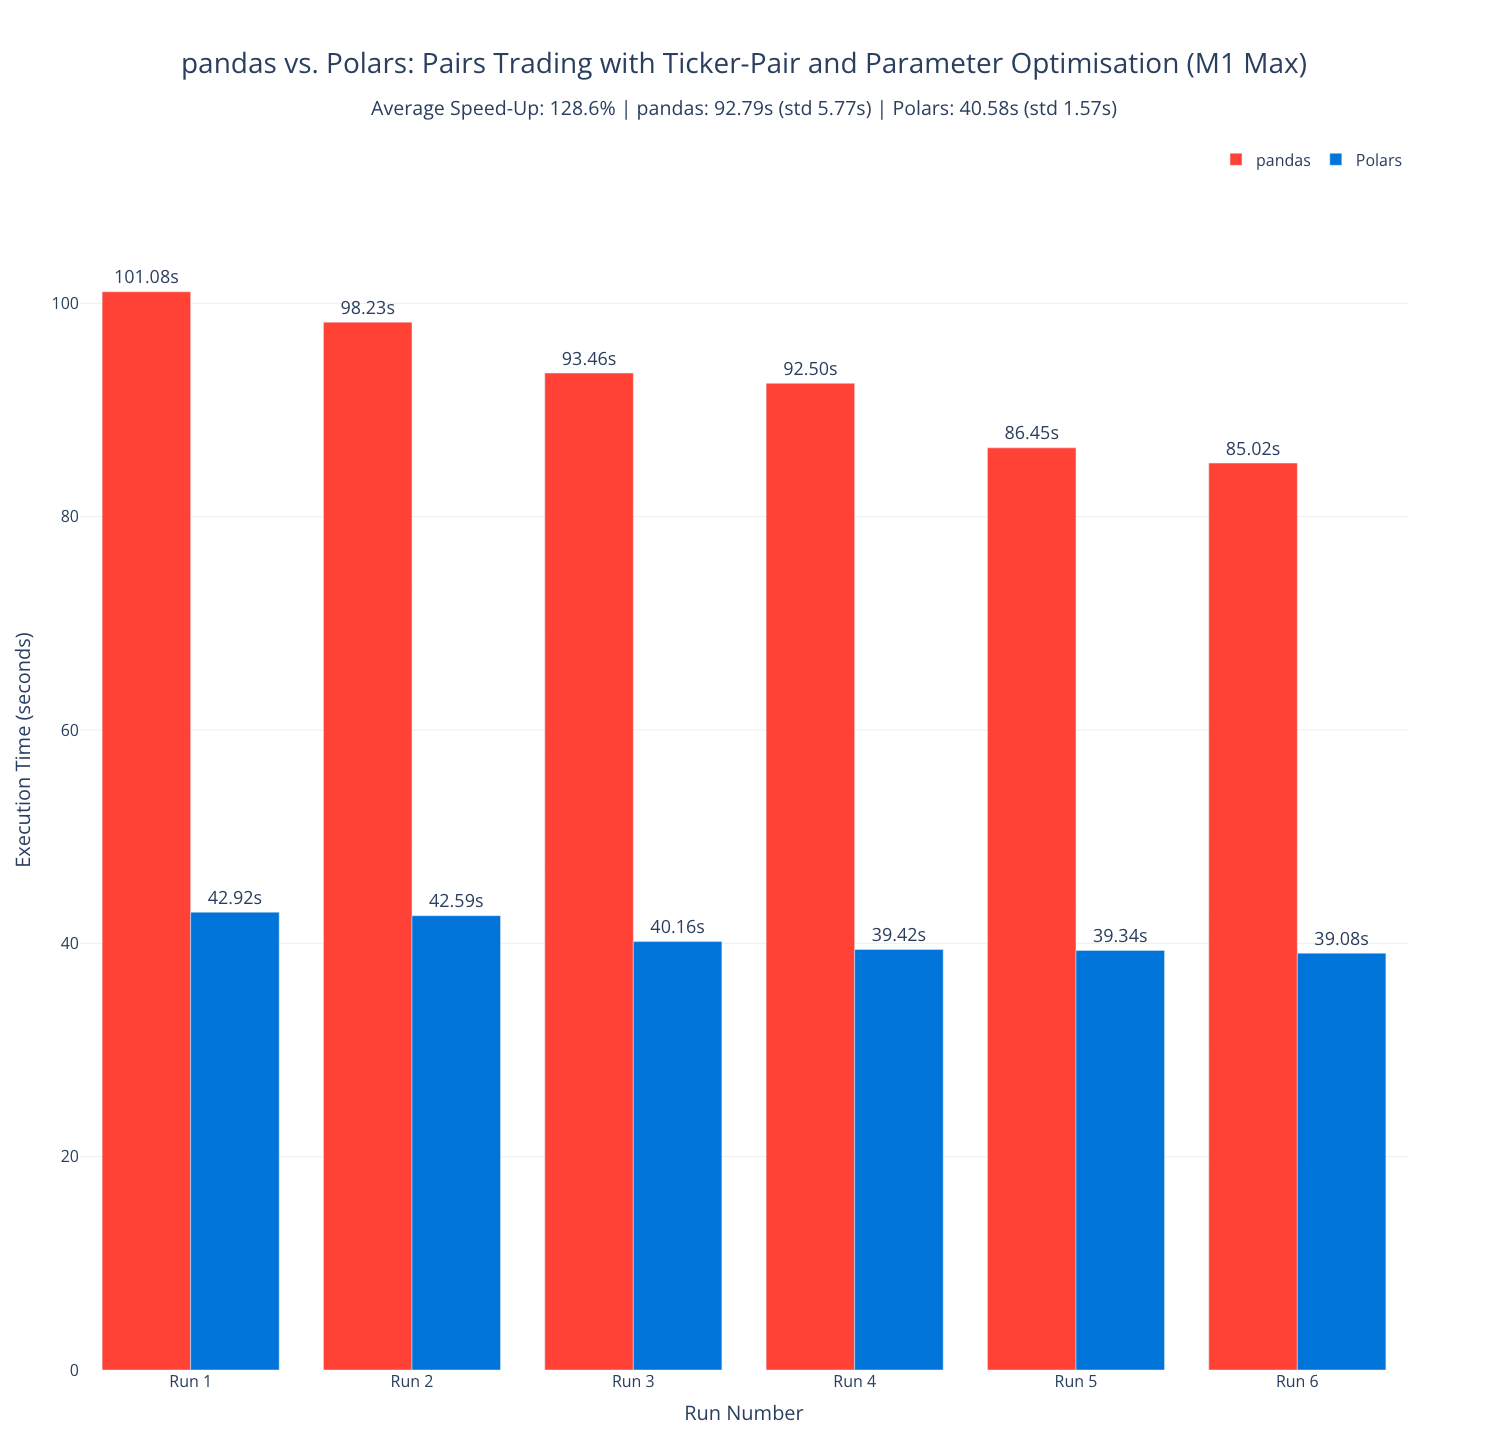
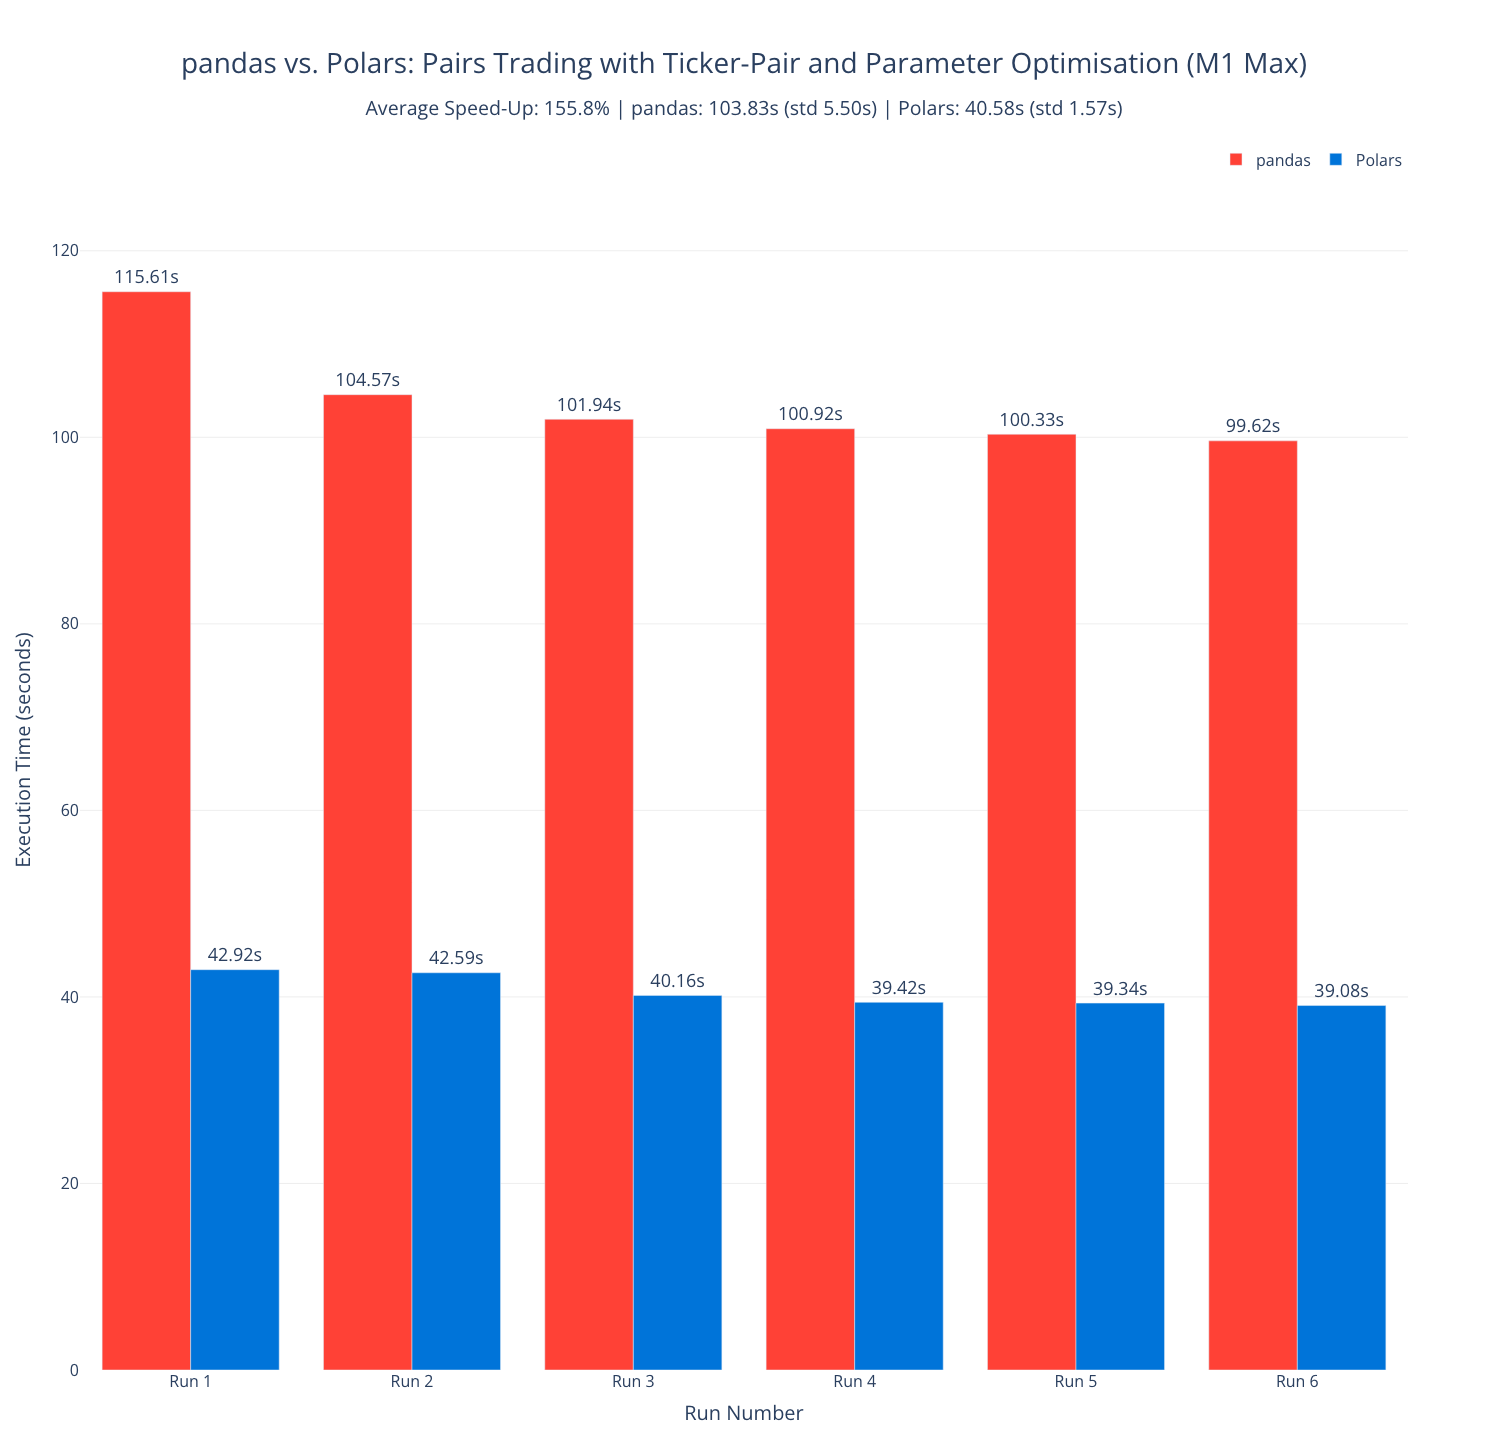
fix: Update pandas results (old results used Python 3.14 instead of 3.13)

diff --git a/README.md b/README.md
@@ -55,7 +55,7 @@ was pre-downloaded to isolate computation from network I/O. Each run executed
 38,000 backtests (190 pairs x 200 parameter combinations) for the pairs trading
 strategy over 2020/01/01 to 2023/12/31.
 
-**Polars was faster by 2.3x on average compared to pandas.**
+**Polars was faster by 2.6x on average compared to pandas.**
 
 ![Benchmark Results](./resources/pairs_trading_benchmark_comparison.png)
 
